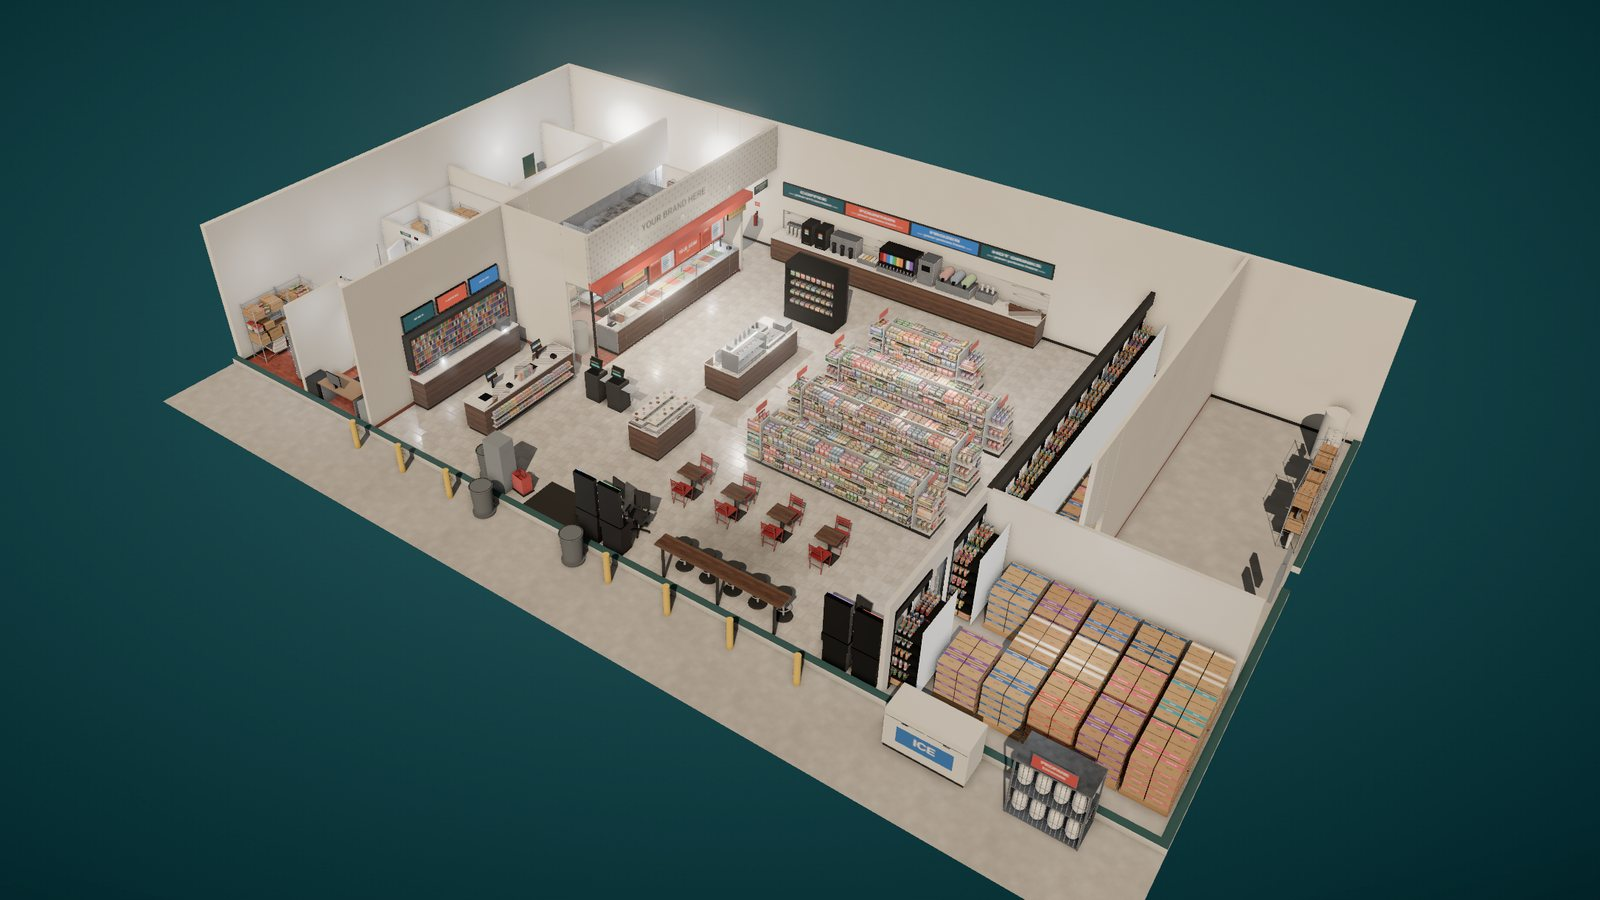
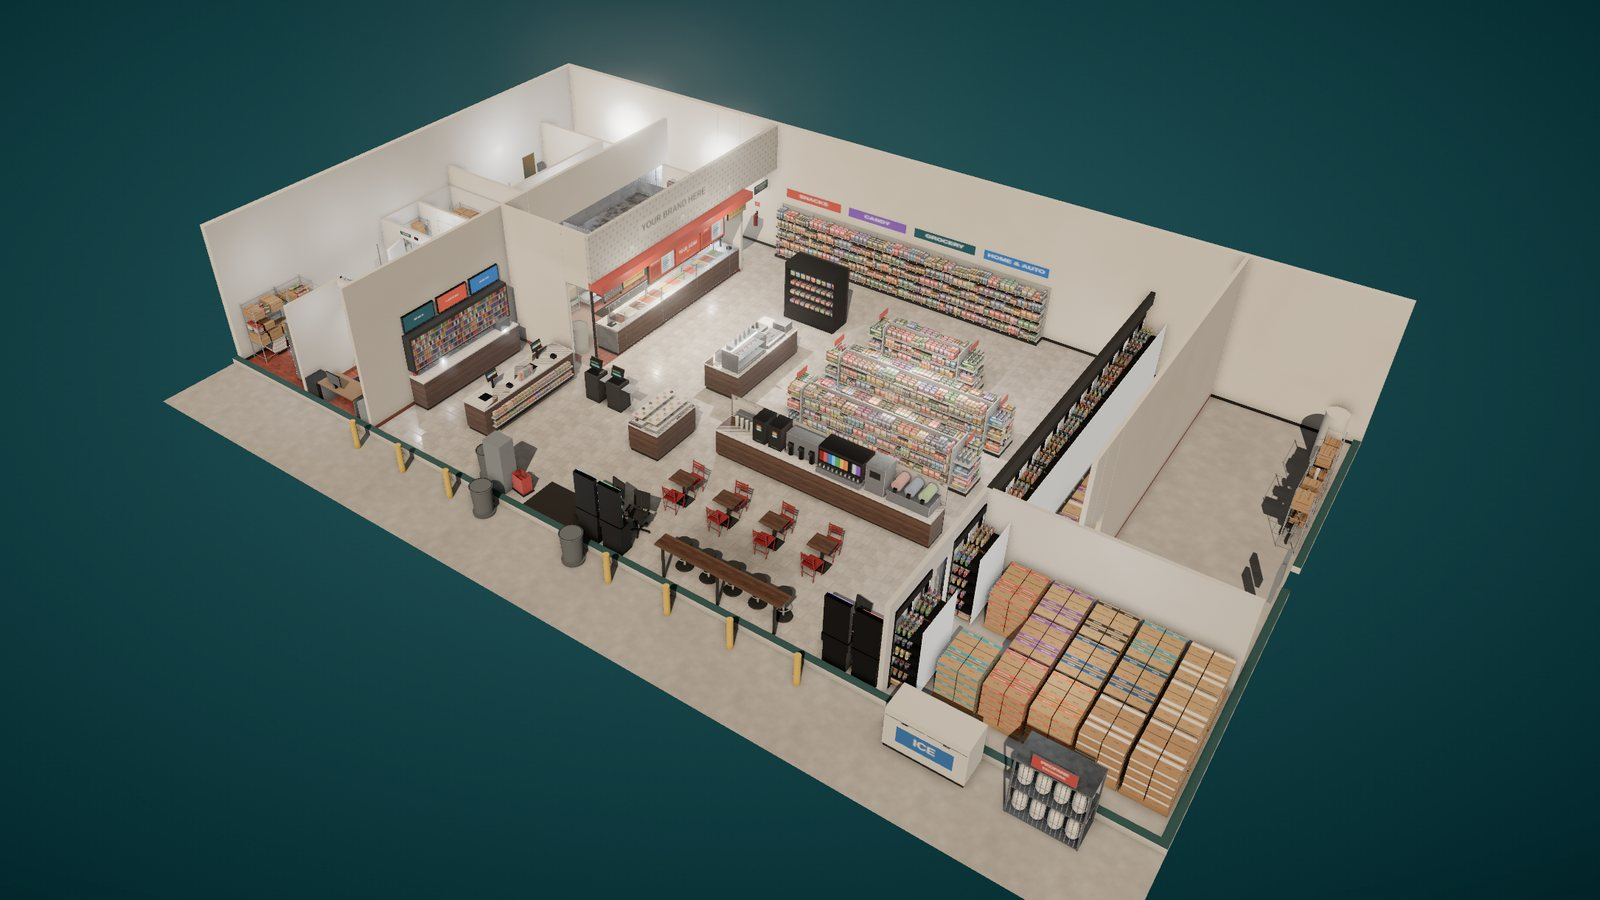
Judson kitchen page: no signs over the coffee bar
Owner: remove the signs from above the coffee bar. The coffee island no
longer has the menu boards or the posts that held them.

Claude-Session: https://claude.ai/code/session_01N4dxibyXiBP7UkFD2e3Gex

diff --git a/shortstop-judson/kitchen3d.js b/shortstop-judson/kitchen3d.js
@@ -88,7 +88,7 @@ const ITEMS = {
   dry: { zone: 'back', name: 'Dry storage', lines: ['Wire shelving for flour, canned goods and paper supplies'], size: '7 ft of shelving' },
   office: { zone: 'back', name: 'Office', lines: ['Small office with a desk and safe, off the back room'], size: 'About 9 × 6 ft' },
   checkout: { zone: 'store', name: 'Store checkout', lines: ['Registers, with a tobacco and lottery back bar', 'Beside the restaurant counter, near the front doors'], size: '12 ft counter' },
-  bevbar: { zone: 'store', name: 'Coffee and fountain bar', lines: ['Coffee machines and brewers, fountain, ice and frozen drinks on a counter at the front of the store', 'Just past the window tables, menu boards above'], size: 'About 21 ft long' },
+  bevbar: { zone: 'store', name: 'Coffee and fountain bar', lines: ['Coffee machines and brewers, fountain, ice and frozen drinks on a counter at the front of the store', 'Just past the window tables'], size: 'About 21 ft long' },
   hotfood: { zone: 'store', name: 'Hot food island', lines: ['Self-serve hot case, roller grill and condiments'], size: 'Island' },
   coldvault: { zone: 'store', name: 'Cold vault', lines: ['Glass cooler doors along the east wall', 'Walk-in beer cave in the front-right corner, at the end of the aisle along the windows: its door sits between glass cooler doors'], size: '17 doors' },
   seating: { zone: 'store', name: 'Seating', lines: ['Window counter with stools between the skill-game machines', 'Four two-person tables with red metal chairs just inside'], size: '13 seats' },
@@ -1809,13 +1809,12 @@ function bevBar(M, P, r, L, { island = false, compact = false } = {}) {
   B(g, M.blackPaint, L - 0.02, 0.1, D - 0.1, 0, 0, D / 2 - 0.03);
   B(g, M.quartz, L + 0.02, 0.04, D + 0.03, 0, top - 0.04, D / 2);
   B(g, M.pattern, L, 0.7, 0.012, 0, top, 0.006);
-  B(g, M.blackPaint, L, 0.5, 0.06, 0, 2.15, 0.03);
-  if (island) {
-    B(g, M.woodPanel, L, top + 0.7, 0.02, 0, 0, -0.01);
-    for (const sx of [-1, 1]) B(g, M.blackPaint, 0.06, 2.15 - (top + 0.7), 0.06, sx * (L / 2 - 0.12), top + 0.7, 0.03);
+  if (island) B(g, M.woodPanel, L, top + 0.7, 0.02, 0, 0, -0.01);   // finished back; no signs over the island (owner)
+  else {
+    B(g, M.blackPaint, L, 0.5, 0.06, 0, 2.15, 0.03);
+    const menus = [['COFFEE', '#204649'], ['FOUNTAIN', '#c9351d'], ['FROZEN', '#1f5ea6'], ['HOT DRINKS', '#204649']];
+    menus.forEach(([t, bg], i) => screen(g, signTexture([t, '— your prices here —'], { w: 512, h: 192, bg, fg: '#f5f3e6', size: 56, print: false }), L / 4 - 0.1, 0.42, -L / 2 + (i + 0.5) * L / 4, 2.4, 0.062));
   }
-  const menus = [['COFFEE', '#204649'], ['FOUNTAIN', '#c9351d'], ['FROZEN', '#1f5ea6'], ['HOT DRINKS', '#204649']];
-  menus.forEach(([t, bg], i) => screen(g, signTexture([t, '— your prices here —'], { w: 512, h: 192, bg, fg: '#f5f3e6', size: 56, print: false }), L / 4 - 0.1, 0.42, -L / 2 + (i + 0.5) * L / 4, 2.4, 0.062));
   let x = -L / 2 + 0.3;
   const at = (w) => { const c = x + w / 2; x += w + gap; return c; };
   // cup and lid dispensers
@@ -2541,7 +2540,7 @@ function buildKitchen(M, X) {
   // owner: the coffee bar is at the front, just past the window tables as you look in from the
   // doors; the back wall carries shelving
   const ws2 = wallShelf(M, P, r, px(63) - px(31), [['SNACKS', '#c9351d'], ['CANDY', '#7a3d9e'], ['GROCERY', '#204649'], ['HOME & AUTO', '#1f5ea6']]); put(main, ws2, (px(31) + px(63)) / 2, Z0); shadowsFor.push([ws2, 0.02]);
-  const bb = bevBar(M, P, r, 6.5, { island: true, compact: true }); put(main, bb, 3.4, 2.2); reg('bevbar', bb, { anchor: [3.4, 2.9, 2.5] }); shadowsFor.push([bb, 0.03]);
+  const bb = bevBar(M, P, r, 6.5, { island: true, compact: true }); put(main, bb, 3.4, 2.2); reg('bevbar', bb, { anchor: [3.4, 2.1, 2.5] }); shadowsFor.push([bb, 0.03]);
   const oc = openCase(M, P, r); put(main, oc, px(42), pz(10.3)); shadowsFor.push([oc, 0.03]);
   const hi = hotIsland(M, P, r); put(main, hi, px(42), pz(21.9), Math.PI / 2); reg('hotfood', hi, { face: [1, 0, 0] }); shadowsFor.push([hi, 0.04]);
   const bk = bakeryIsland(M, P, r); put(main, bk, px(41.8), pz(35.7), Math.PI / 2); shadowsFor.push([bk, 0.04]);

diff --git a/shortstop-judson/README.md b/shortstop-judson/README.md
@@ -51,7 +51,7 @@ the building was built to (about 93 x 50 ft, storefront on the south):
 - checkout with a tobacco and lottery back bar between the kitchen and the
   front doors, self-checkouts beside it; the coffee, fountain and frozen-drink
   bar is a counter at the front of the store, just past the window tables as
-  you look right from the doors (owner), menu boards on posts above it;
+  you look right from the doors (owner), with no signs over it;
   shelving along the back wall; grab-and-go case, hot food island and bakery
   island; three gondola runs;
 - east wall: 13 glass cooler doors with the vault behind and a utility room
